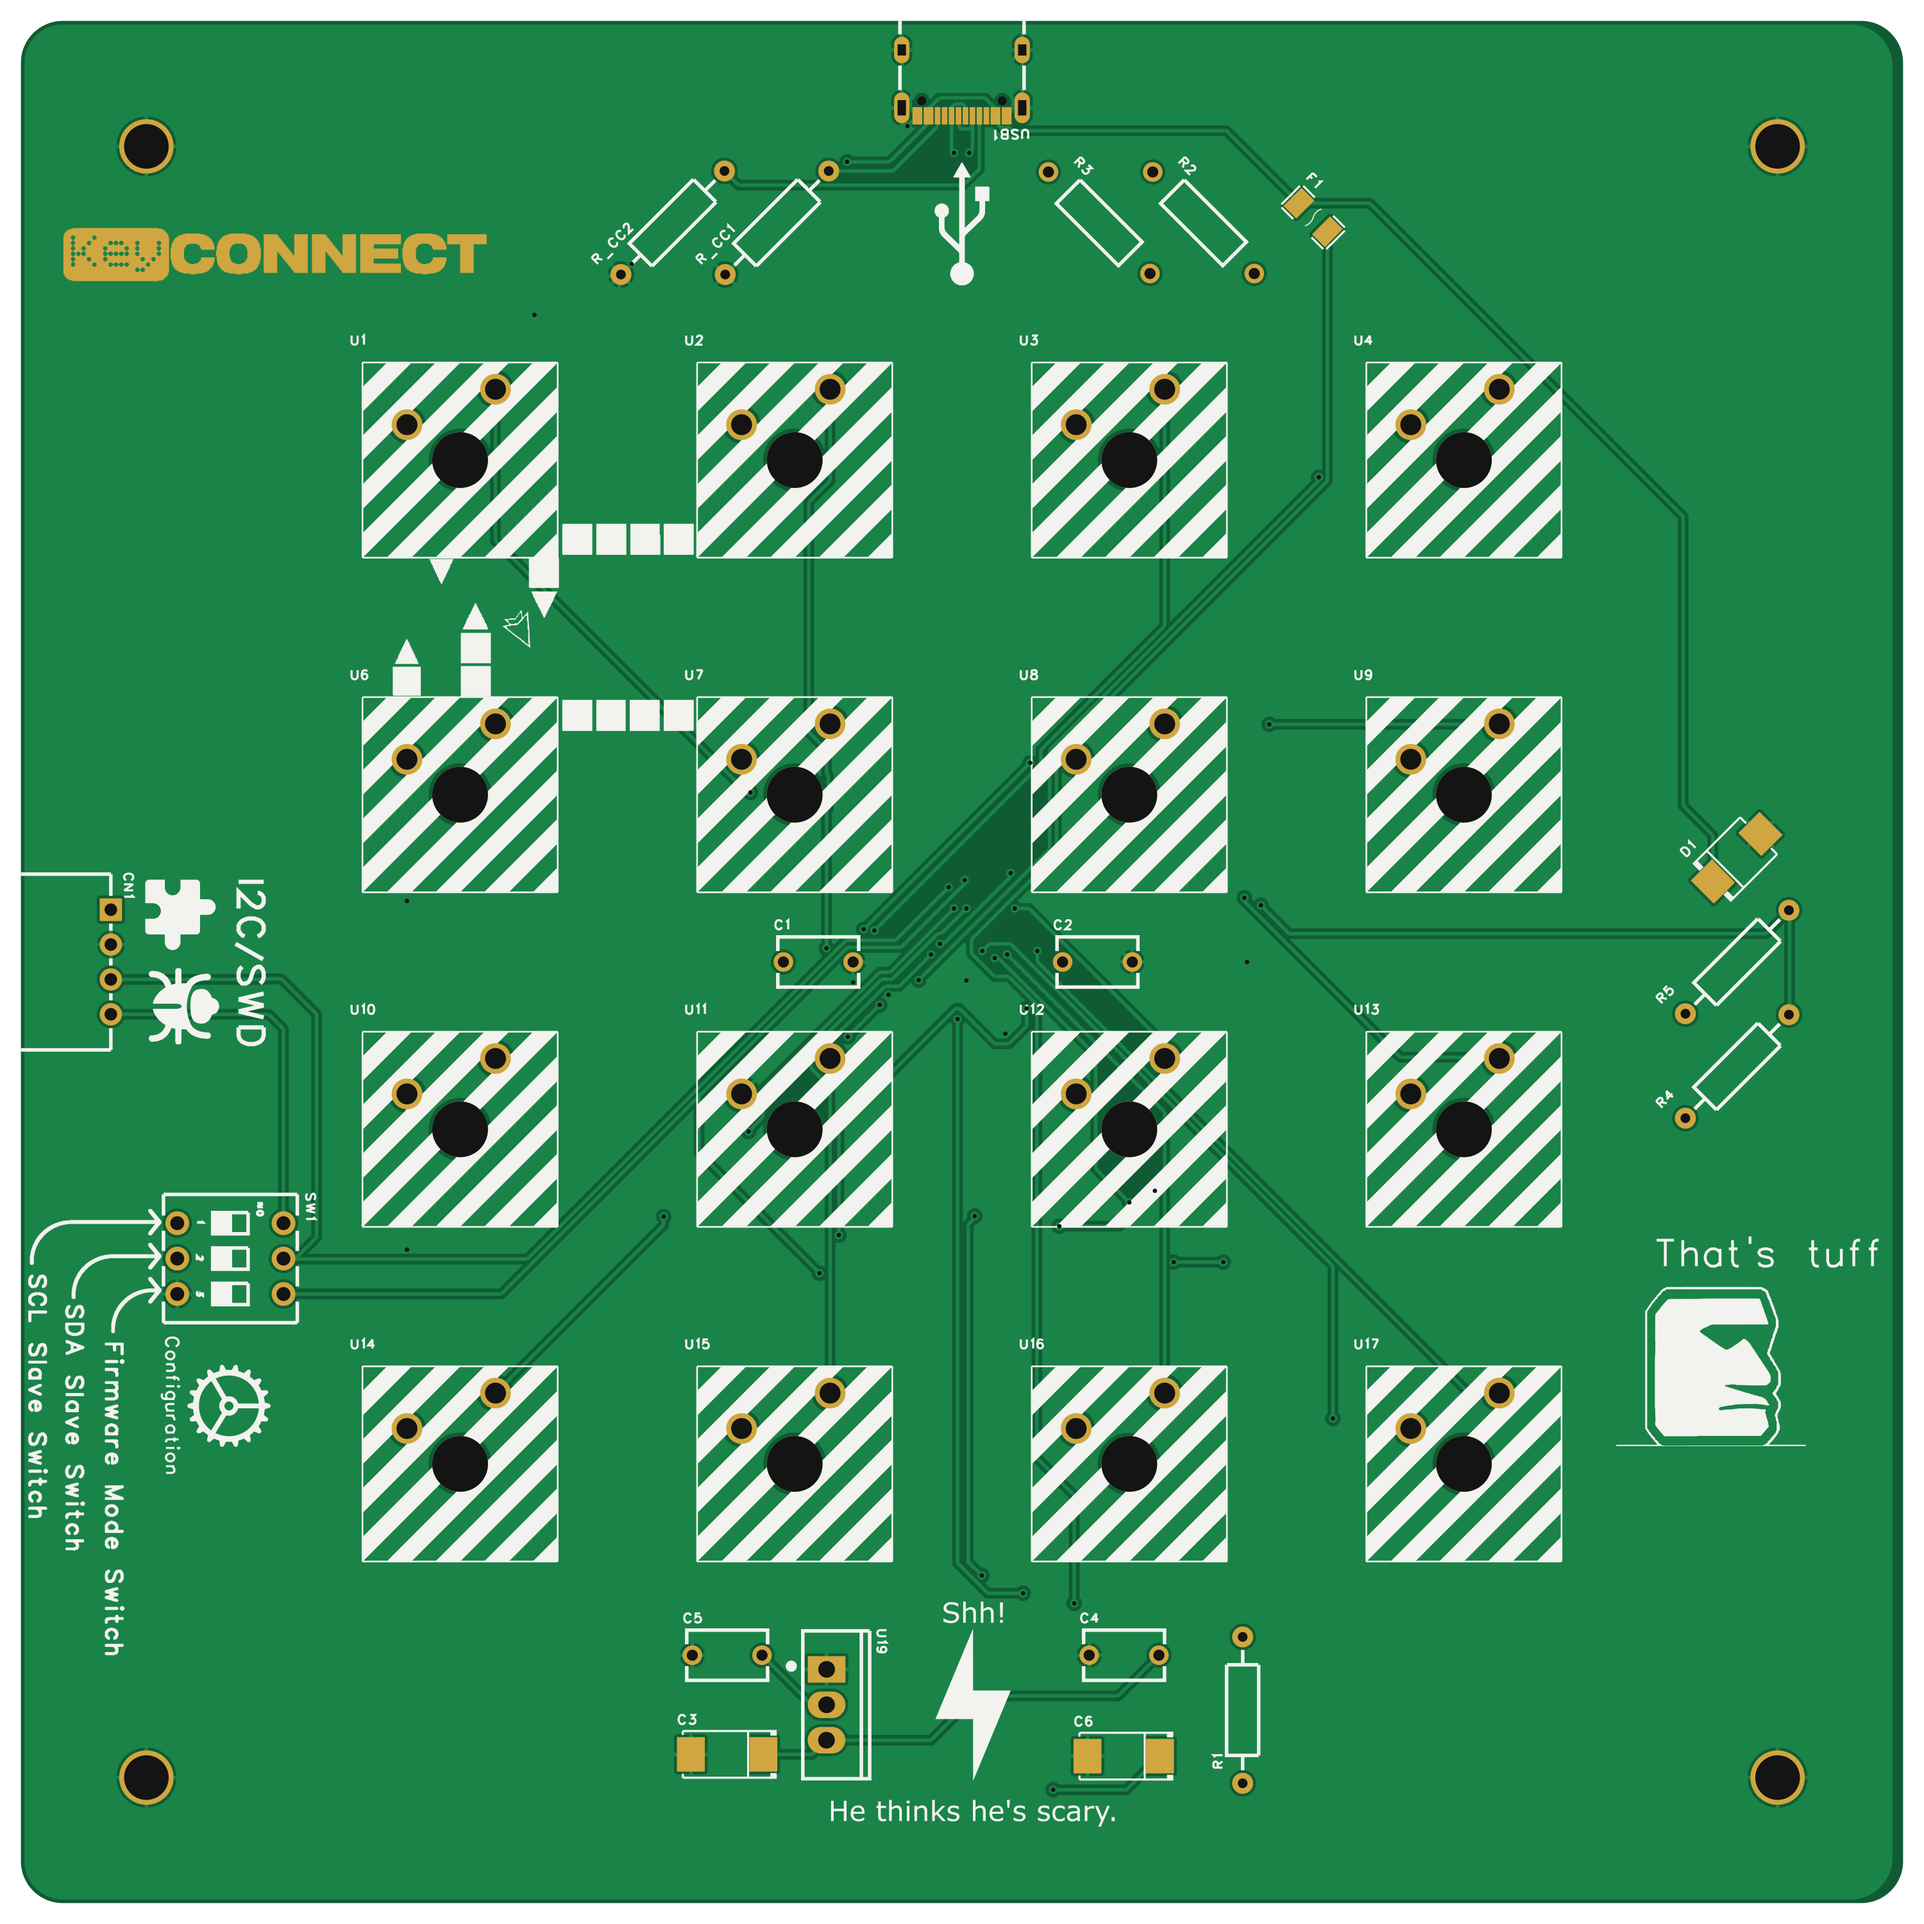
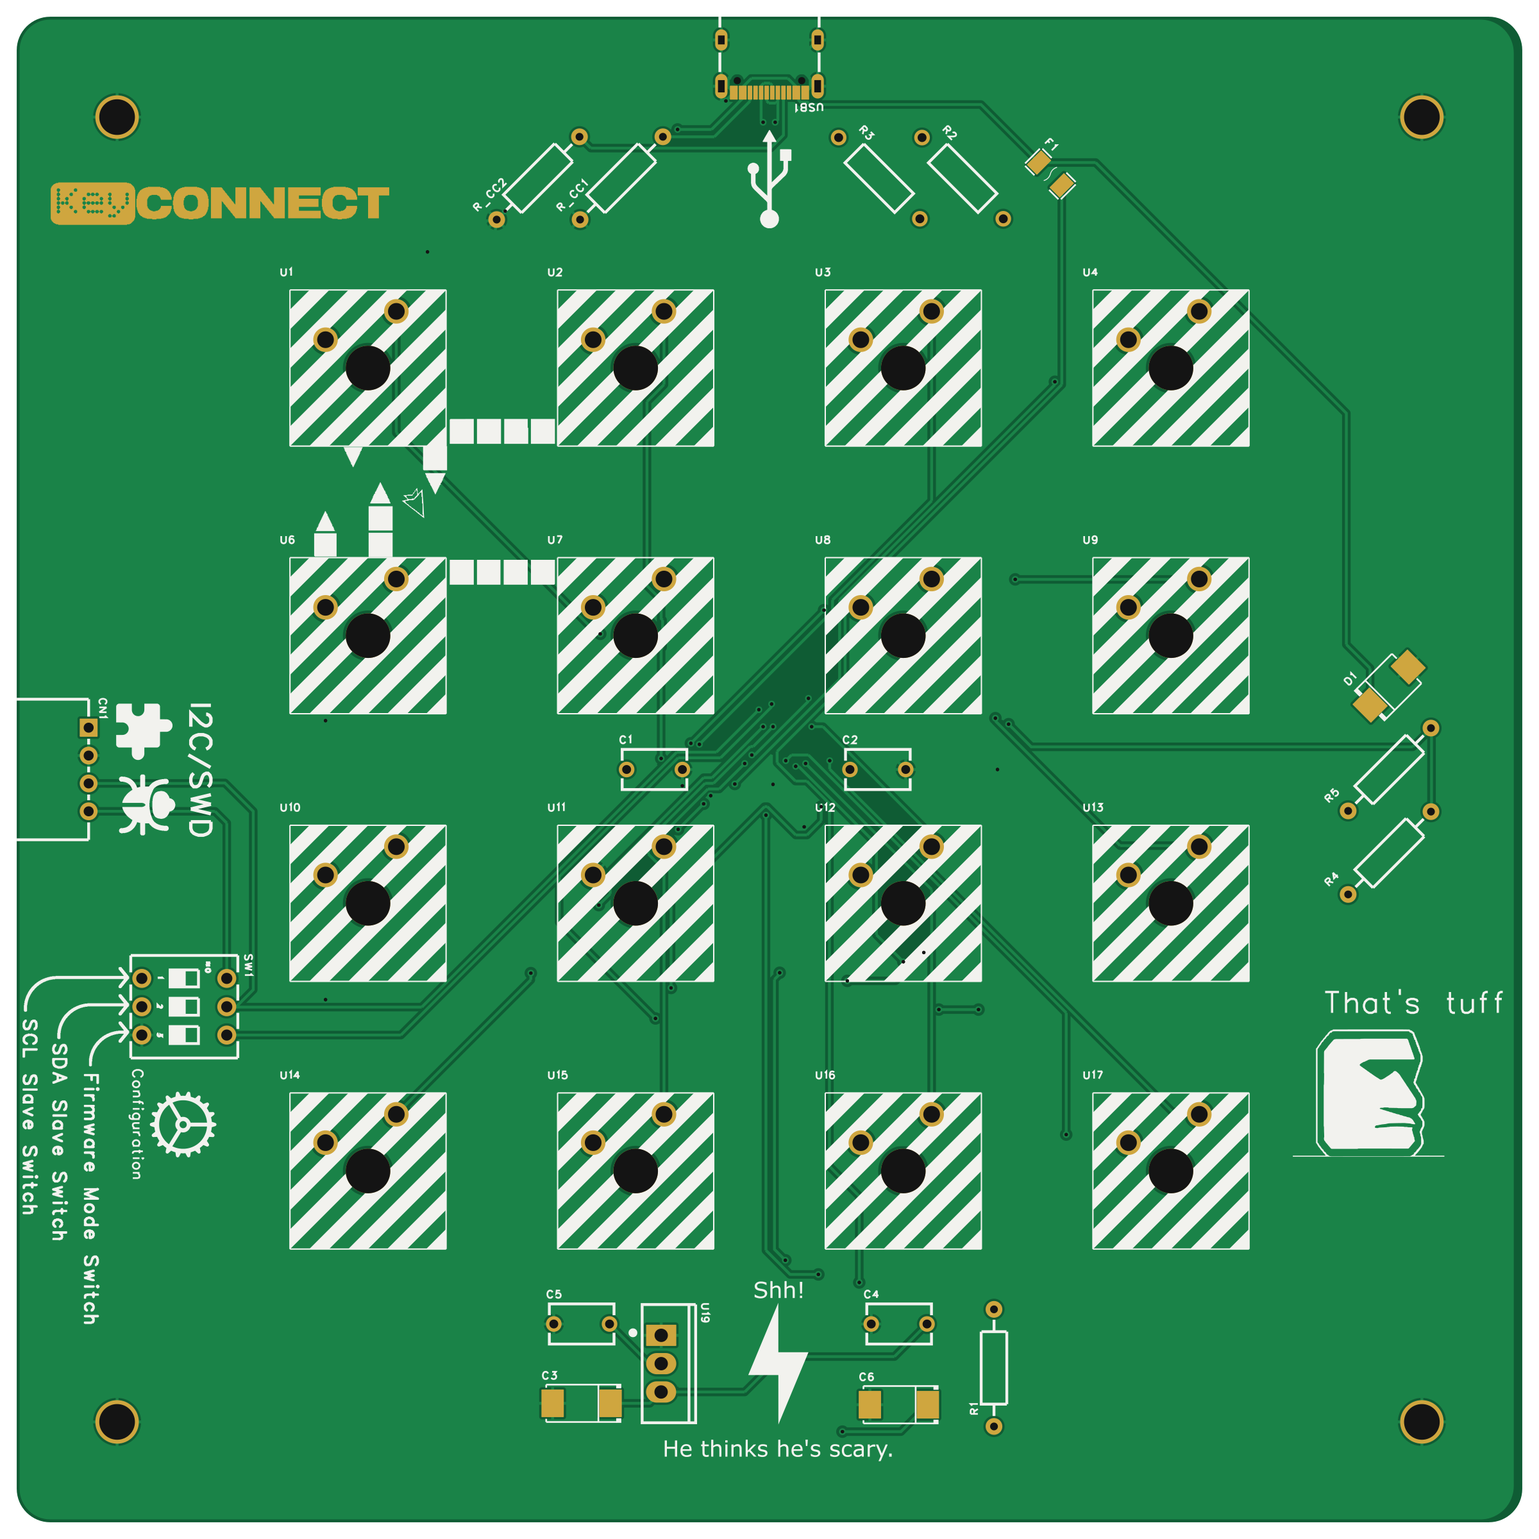
Clear switch housings, red DIP switch, and lighter previews
Render tweaks (mechanical/pcb/previews)
- Switch housings are now translucent (alpha 0.35, frosted) so the hatched
  silkscreen squares underneath stay visible through them.
- The DIP/slide switch is picked out in solid red.
- Both are done by material name from the STEP export (`switch`, `slide`), so
  nothing else is re-coloured and the board artwork still comes only from the
  Gerbers.
- Rendered at 1800x1350 and published at 1280 px wide with the alpha bounding box
  trimmed: Assembled_View.png 2.2 MB -> 0.96 MB, Assembled_View_Bottom.png
  1.6 MB -> 0.61 MB. The 2D PNGs drop to 2400 px (490/400 KB -> 370/300 KB).
- Re-rendered the underside axis-aligned with the per-object camera fit, so it
  stays landscape and tight rather than rotated.

READMEs updated to describe the translucent housings and the red DIP switch.

diff --git a/mechanical/pcb/previews/README.md b/mechanical/pcb/previews/README.md
@@ -75,6 +75,12 @@ with [sharp](https://sharp.pixelplumbing.com/) (`top.svg`/`bottom.svg` →
 4. Light it with a key, a fill and a rim area light plus a soft world, film
    transparent, `Standard` view transform, and frame each view automatically
    (~62 mm lens, camera distance solved so the content fits the frame).
+5. Re-colour two materials by name: the switch housings (`switch`) are rendered
+   translucent (alpha 0.35) so the silkscreen underneath stays readable, and the
+   DIP/slide switch (`slide`) is solid red. Nothing else is touched — the board
+   artwork still comes only from the Gerbers.
+
+The published renders are 1280 px wide so the READMEs stay quick to load.
 
 The lighting is deliberately soft: the point is to show the artwork, not to
 blow out the highlights.
@@ -86,8 +92,8 @@ hatching. That is **real silkscreen**, straight out of the `CherryMX_9.75u`
 footprint in the Gerber (`Gerber_TopSilkscreenLayer.GTO`, 250 `G36` regions, no
 `GKO` cut-outs anywhere on the board) — it is the footprint's switch-body outline.
 It gets printed on the real board exactly as drawn, so if it is not wanted it has
-to be removed in the footprint itself. In `Assembled_View.png` the switches cover
-almost all of it.
+to be removed in the footprint itself. In `Assembled_View.png` the translucent
+switch housings let it show through.
 
 ## A note on the gold wordmark
 

diff --git a/README.md b/README.md
@@ -35,6 +35,8 @@ so bottom-side text reads mirrored here — exactly as it does in any fab viewer
 
 Fully populated 3D views, rebuilt from the Gerber artwork itself (silkscreen,
 soldermask openings and all) with the component bodies taken from the STEP export.
+The switch housings are drawn translucent so the silkscreen under them stays
+visible, and the DIP switch is picked out in red.
 
 ![Assembled board, top side](mechanical/pcb/previews/Assembled_View.png)
 
